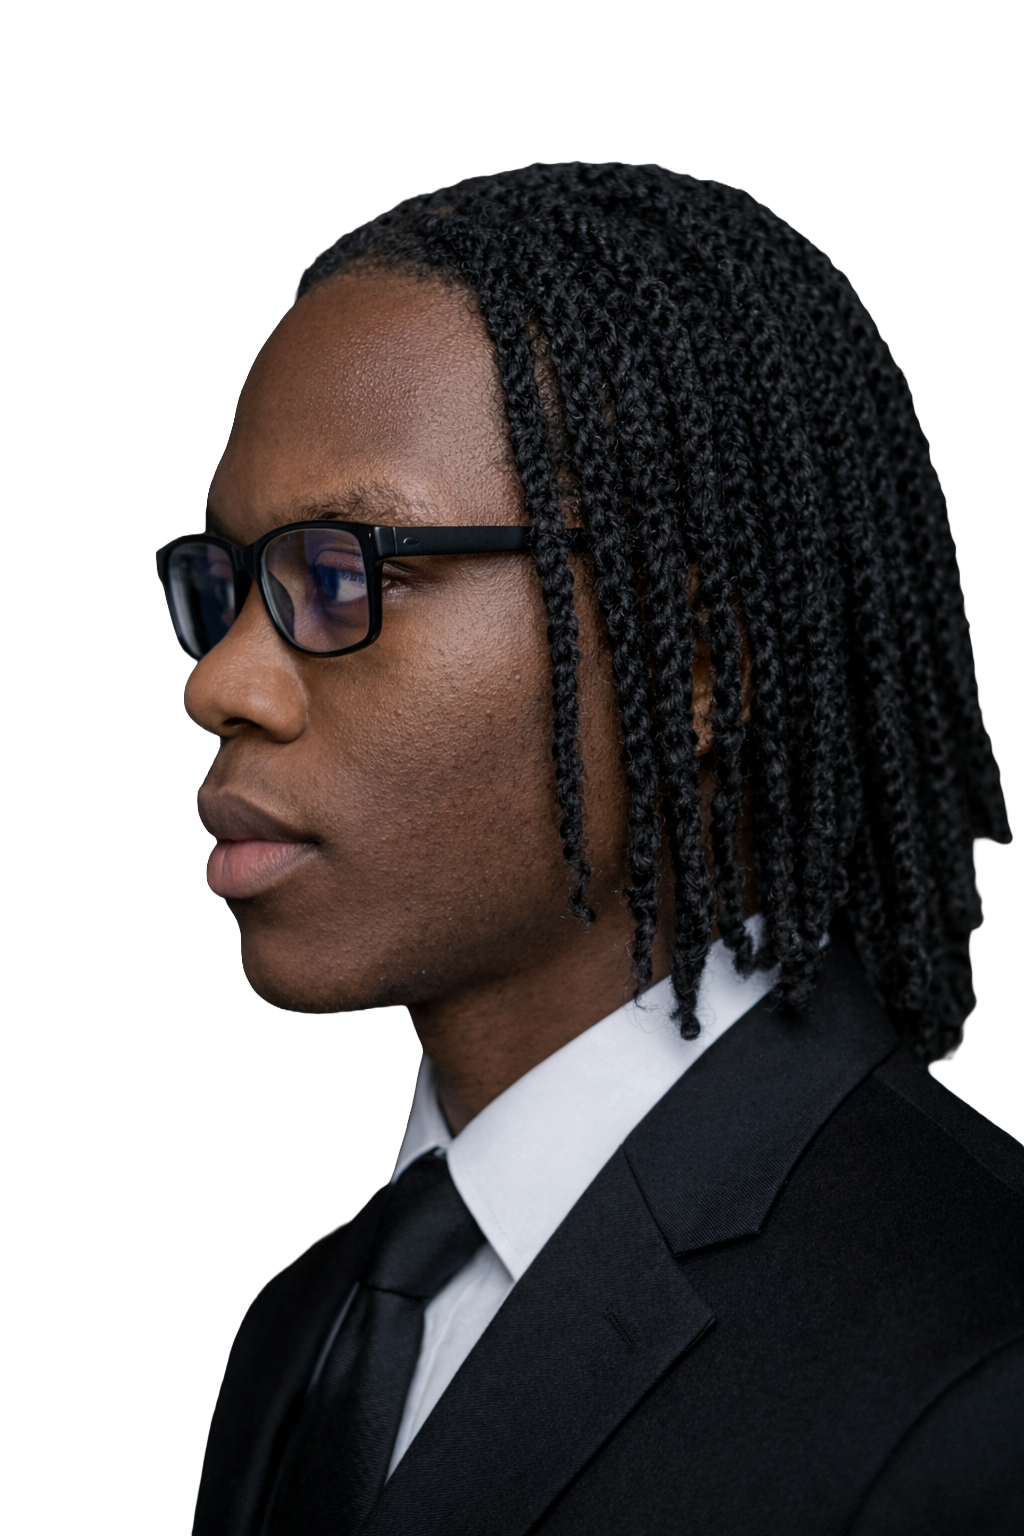
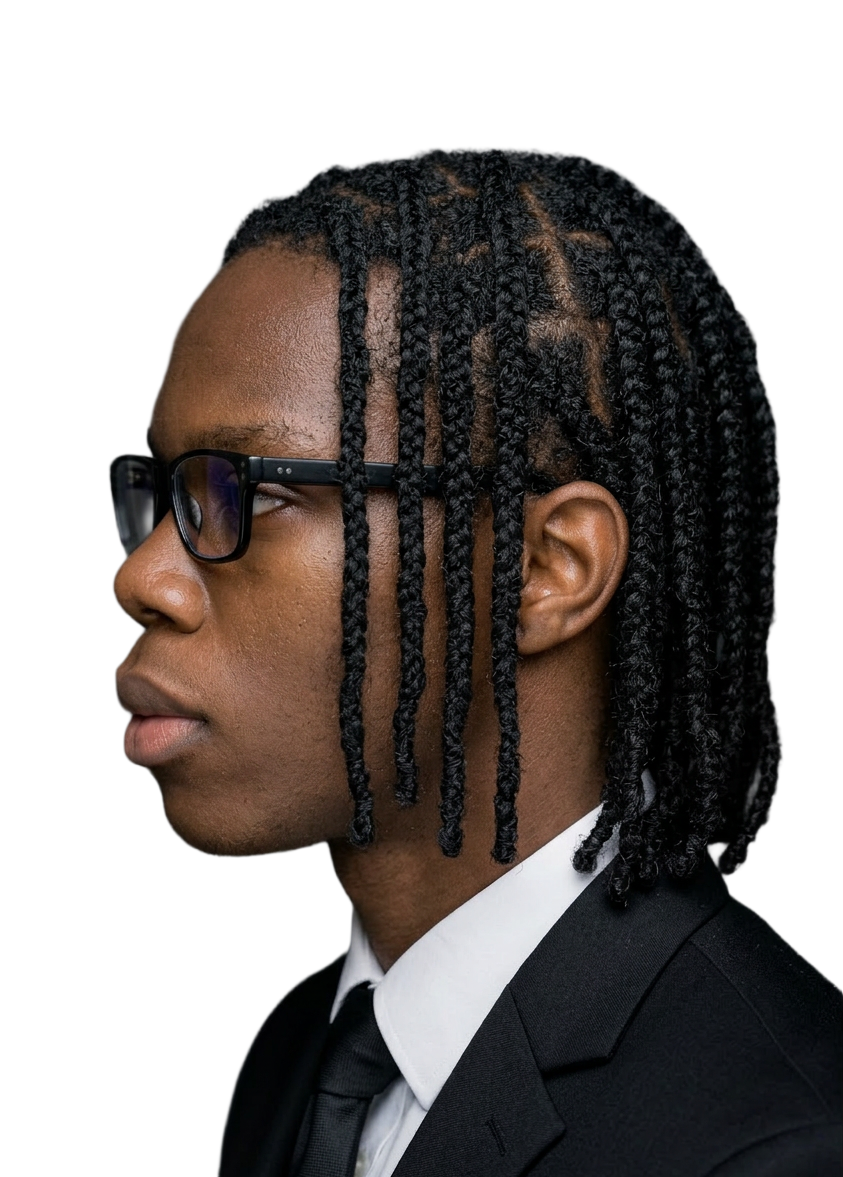
updated footer image

diff --git a/src/sections/FooterSection.tsx b/src/sections/FooterSection.tsx
@@ -26,7 +26,7 @@ export function FooterSection() {
           <img
             src="/images/Me-10.png"
             alt="Alex Graham"
-            className="h-full w-auto object-cover object-center lg:object-top lg:aspect-square scale-x-[-1]"
+            className="h-full w-auto object-cover object-center lg:object-top lg:aspect-square"
           />
         </div>
 
